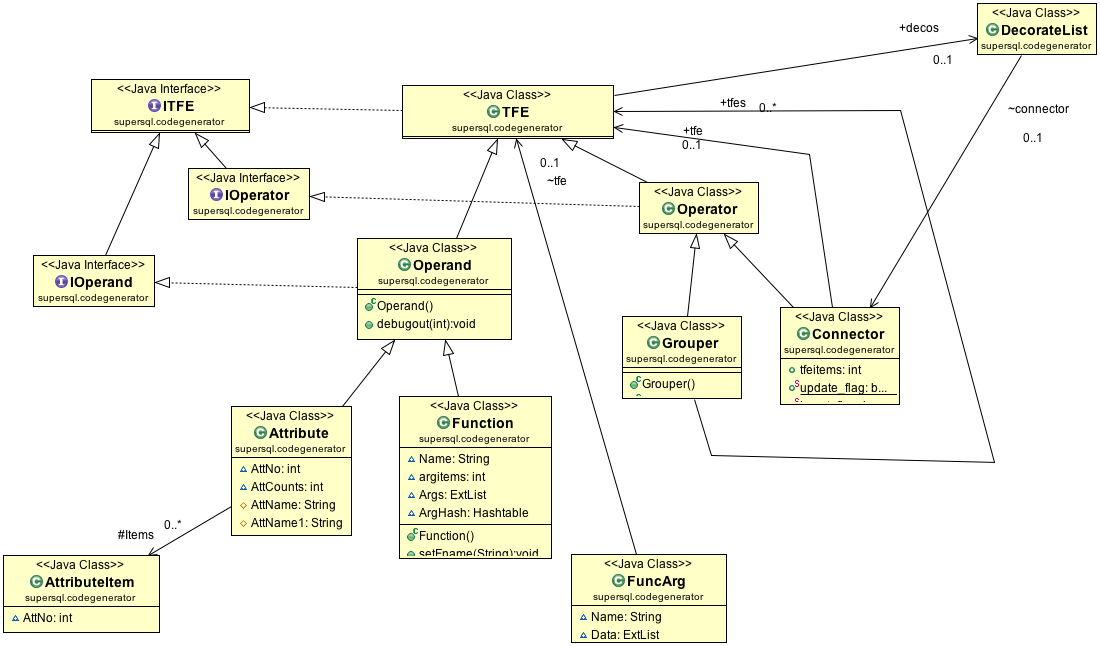
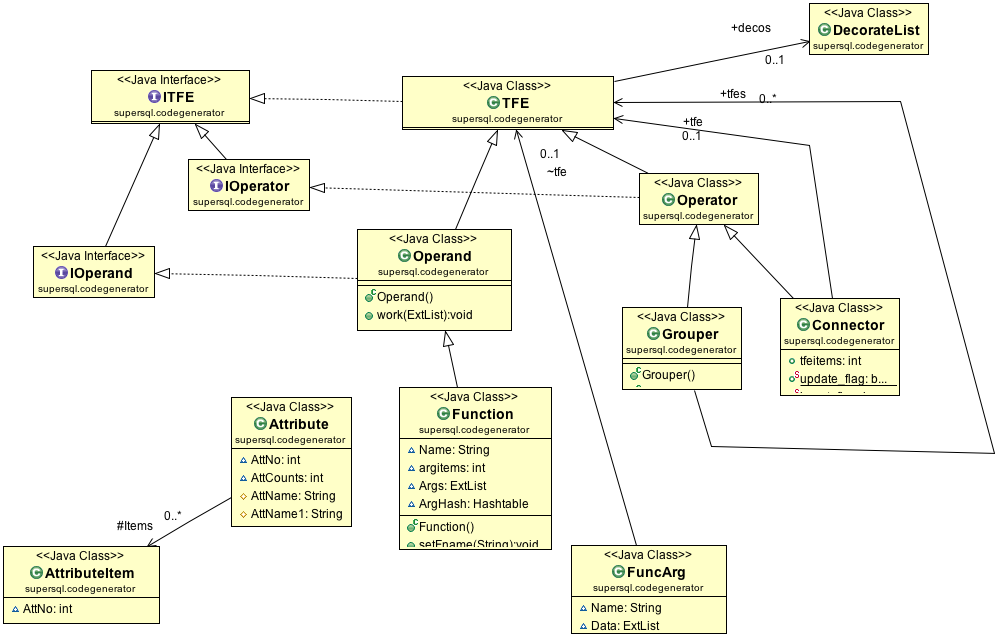
Removing special case String in ExtList

diff --git a/supersql/db/SQLManager.java b/supersql/db/SQLManager.java
@@ -73,9 +73,7 @@ public class SQLManager {
     	if(isMulti)
     	{
     		Log.out("thred name:"+cdb.getName());
-
     		Log.out("isAlive?"+cdb.isAlive());
-
     		try{
     			cdb.join();
 	    	}catch(InterruptedException e)
@@ -84,19 +82,15 @@ public class SQLManager {
 	    	conn = cdb.getConn();
     	}
 
-
         Log.out("[SQLManager ExecQuery]");
-        Log.info("");			//added by goto 20120620
-        //changed by goto 20130306 start  "FROMなしクエリ対策"
         if(!query.equals("SELECT DISTINCT  FROM ;")){
 	        Log.info("********** SQL is **********");
 	        Log.info(query);
         }
-        //changed by goto 20130306 end
 
-        header_name = new ExtList();
-        header_type = new ExtList();
-        tuples = new ExtList();
+        header_name = new ExtList<String>();
+        header_type = new ExtList<String>();
+        tuples = new ExtList<String>();
 
         try {
             Statement stat = conn.createStatement();
@@ -104,9 +98,9 @@ public class SQLManager {
             ResultSetMetaData rsmd = rs.getMetaData();
             int columnCount = rsmd.getColumnCount();
             for (int i = 1; i <= columnCount; i++) {
-                header_name.add(new ExtList(rsmd.getColumnName(i)));
-                header_type.add(new ExtList(Integer.toString(rsmd
-                        .getColumnType(i))));
+                header_name.add(rsmd.getColumnName(i));
+                header_type.add(Integer.toString(rsmd
+                        .getColumnType(i)));
             }
 
             ExtList tmplist;
@@ -116,15 +110,13 @@ public class SQLManager {
                 for (int i = 1; i <= columnCount; i++) {
                     val = rs.getString(i);
                     if (val != null) {
-                        tmplist.add(new ExtList(rs.getString(i).toString()
-                                .trim()));
+                        tmplist.add(val.trim());
                     } else {
-                        tmplist.add(new ExtList(""));
+                        tmplist.add("");
                         Log.out("[Warning] null value exist!");
                     }
                 }
                 tuples.add(tmplist);
-
             }
             Log.out("[SQLManager:execQuerySQL] Result tuples count = "
                     + tuples.size());
@@ -136,7 +128,7 @@ public class SQLManager {
             	//200912chie     notexit
                 tmplist = new ExtList();
             	for (int i = 1; i <= columnCount; i++) {
-                    tmplist.add(new ExtList(""));
+                    tmplist.add("");
                     Log.out("[Warning] null value exist!");
                 }
                 tuples.add(tmplist);
@@ -274,8 +266,8 @@ public class SQLManager {
         fromchnum = 0; tochnum=0;
         while(query.indexOf(",",fromchnum) != -1){
         	tochnum = query.indexOf(",",fromchnum);
-        	header_name.add(new ExtList(query.substring(fromchnum,tochnum).trim()));
-        	header_type.add(new ExtList("4"));
+        	header_name.add(query.substring(fromchnum,tochnum).trim());
+        	header_type.add("4");
         	for(int i=0;i<listdb_column_num;i++){
         		if(query.substring(fromchnum,tochnum).trim().equals(listdb.get(0).get(i))){
         			num_from_left.add(i);
@@ -285,8 +277,8 @@ public class SQLManager {
         	fromchnum = tochnum + 1;
         }
         tochnum = query.length();
-        header_name.add(new ExtList(query.substring(fromchnum,tochnum).trim()));
-        header_type.add(new ExtList("4"));
+        header_name.add(query.substring(fromchnum,tochnum).trim());
+        header_type.add("4");
         for(int i=0;i<listdb_column_num;i++){
     		if(query.substring(fromchnum,tochnum).trim().equals(listdb.get(0).get(i))){
     			num_from_left.add(i);
@@ -301,16 +293,16 @@ public class SQLManager {
         }*/
 
         //get record turn
-        ExtList tmplist;
+        ExtList<String> tmplist;
         String val;
         for (int i=1;i<listdb.size();i++) {//from 1 roop
             tmplist = new ExtList();
             for (int j=0;j<num_from_left.size();j++) {
             	val = (String)listdb.get(i).get(num_from_left.get(j));
                 if (val != null) {
-                    tmplist.add(new ExtList(val));
+                    tmplist.add(val);
                 } else {
-                    tmplist.add(new ExtList(""));
+                    tmplist.add("");
                     Log.out("[Warning] null value exist!");
                 }
             }

diff --git a/supersql/codegenerator/Attribute.java b/supersql/codegenerator/Attribute.java
@@ -172,21 +172,21 @@ public class Attribute extends Operand {
 	}
 
 	public void work(ExtList data_info) {
-		Log.out("Attribute : " + data_info.getStr());
+		Log.out("Attribute : " + data_info.toString());
 	}
 
-	public String getStr(ExtList data_info) {
+	public <T> String getStr(ExtList<T> data_info) {
 		
 		String str = "";
 		
 		if(conditional){
-			String toCompare = ((ExtList) data_info.get(Items.size()-1-decos.getConditionsSize())).getStr();
+			String toCompare = (data_info.get(Items.size()-1-decos.getConditionsSize())).toString();
 			if(toCompare.equals("t") || toCompare.equals("1")){
-				str = ((ExtList) data_info.get(0)).getStr();
+				str = (data_info.get(0)).toString();
 			}
 			else if(toCompare.equals("f") || toCompare.equals("0")){
 				if(Items.size()-decos.getConditionsSize() == 3)
-					str = ((ExtList) data_info.get(1)).getStr();
+					str = (data_info.get(1)).toString();
 				else
 					str = "";
 			}
@@ -194,12 +194,9 @@ public class Attribute extends Operand {
 			return str;
 		}
 		else{
-			//	Log.out("data_info : " + data_info);
 			for (int i = 0; i < Items.size()-decos.getConditionsSize(); i++) {
-				//		Log.out("data_info : " +
-				// ((AttributeItem)Items.get(i)).getStr(data_info, AttNo));
 				str += (((AttributeItem) Items.get(i)).getStr(data_info, AttNo-decos.getConditionsSize()));
-			}			//	Log.out("Attribute out : " + str);
+			}
 			return str;
 		}
 		

diff --git a/supersql/dataconstructor/SortNesting.java b/supersql/dataconstructor/SortNesting.java
@@ -40,11 +40,10 @@ public class SortNesting {
 			ExtList buffer = new ExtList();
 			ExtList o;
 			for (int i = 0; i < t.size(); i++) {
-				o = (ExtList) t.get(i);
-				if (o.isStr()) {
-					buffer.add(o);
+				if (t.get(i) instanceof String) {
+					buffer.add(t.get(i));
 				} else {
-					SortNesting s = new SortNesting(o);
+					SortNesting s = new SortNesting((ExtList) t.get(i));
 					buffer.add(s);
 				}
 			}
@@ -74,9 +73,8 @@ public class SortNesting {
 		ExtList result = new ExtList();
 
 		for (int i = 0; i < t.size(); i++) {
-			o = (ExtList) t.get(i);
-			if (o.isStr()) {
-				result.add(o);
+			if (t.get(i) instanceof String) {
+				result.add(t.get(i));
 			}
 		}
 		return result;

diff --git a/supersql/codegenerator/HTML/HTMLIfCondition.java b/supersql/codegenerator/HTML/HTMLIfCondition.java
@@ -22,10 +22,10 @@ public class HTMLIfCondition extends IfCondition {
 	}
 	
 	public void work(ExtList data_info){
-		if((((ExtList) (data_info.get(0))).getStr()).equals("t")){
+		if((((data_info.get(0))).toString()).equals("t")){
 			if(thenTfe instanceof Connector || thenTfe instanceof Attribute
 				|| thenTfe instanceof Function || thenTfe instanceof IfCondition)
-				thenTfe.work((ExtList)data_info.ExtsubList(1, thenTfe.countconnectitem()+1));
+				thenTfe.work(data_info.ExtsubList(1, thenTfe.countconnectitem()+1));
 			
 			else
 				thenTfe.work((ExtList)data_info.get(1));

diff --git a/supersql/codegenerator/HTML/HTMLAttribute.java b/supersql/codegenerator/HTML/HTMLAttribute.java
@@ -614,10 +614,10 @@ public class HTMLAttribute extends Attribute {
 		return ret;
 	}
 
-	private String computeStringForDecoration(ExtList data_info) {
+	private <T> String computeStringForDecoration(ExtList<T> data_info) {
 		String classNames = "";
 		for(int i = 1; i < this.AttNames.size(); i++){
-			if(((ExtList)(data_info.get(i))).getStr().equals("t")){
+			if(((data_info.get(i))).toString().equals("t")){
 				if(decos.getClassesIds().get(AttNames.get(i)) != null)
 					classNames += " C_" + decos.getClassesIds().get(AttNames.get(i));
 			}

diff --git a/supersql/dataconstructor/Aggregate.java b/supersql/dataconstructor/Aggregate.java
@@ -277,8 +277,8 @@ public class Aggregate {
 		
 		tmp.append(" ");
 		tmp.append(value);
-		
-		target = new ExtList(tmp.toString());
+		target = new ExtList();
+		target.add(tmp.toString());
 		
 		tuple.set(position, target);
 		
@@ -296,8 +296,8 @@ public class Aggregate {
 		ExtList result = new ExtList();
 		
 		tmp.append(way); tmp.append(" "); tmp.append(value);
-				
-		target = new ExtList(tmp.toString());
+		target = new ExtList();		
+		target.add(tmp.toString());
 		
 		tuple.set(position, target);
 		

diff --git a/supersql/db/GetFromDB.java b/supersql/db/GetFromDB.java
@@ -41,8 +41,6 @@ public class GetFromDB {
 
         ResultData.clear();
 
-        Log.out("[ConstructData:execQuery] : " + query);
-
         if (GlobalEnv.getframeworklist() != null) {
             Log.out("## From framework DB list ##");
             Log.out(GlobalEnv.getframeworklist());

diff --git a/supersql/dataconstructor/DataConstructor.java b/supersql/dataconstructor/DataConstructor.java
@@ -221,8 +221,8 @@ public class DataConstructor {
 		end = System.nanoTime(); 
 		exectime[EXECSQL] = end - start;
 		
-		Log.out("## DB result ##");
-		Log.out(sep_data_info);
+		Log.info("## DB result ##");
+		Log.info(sep_data_info);
 
 		return sep_data_info;
 

diff --git a/supersql/codegenerator/AttributeItem.java b/supersql/codegenerator/AttributeItem.java
@@ -101,7 +101,7 @@ public class AttributeItem {
 		if (IsStr) {
 			return Image;
 		} else {
-			return ((ExtList) data_info.get(AttNo - idx)).getStr();
+			return (data_info.get(AttNo - idx)).toString();
 		}
 	}
 

diff --git a/supersql/testdata/parseData.java b/supersql/testdata/parseData.java
@@ -49,7 +49,7 @@ public class parseData {
 				//    Log.out("***end paren***");
 				return result;
 			} else {
-				result.add(new ExtList(tok));
+				result.add(tok);
 			}
 		}
 
